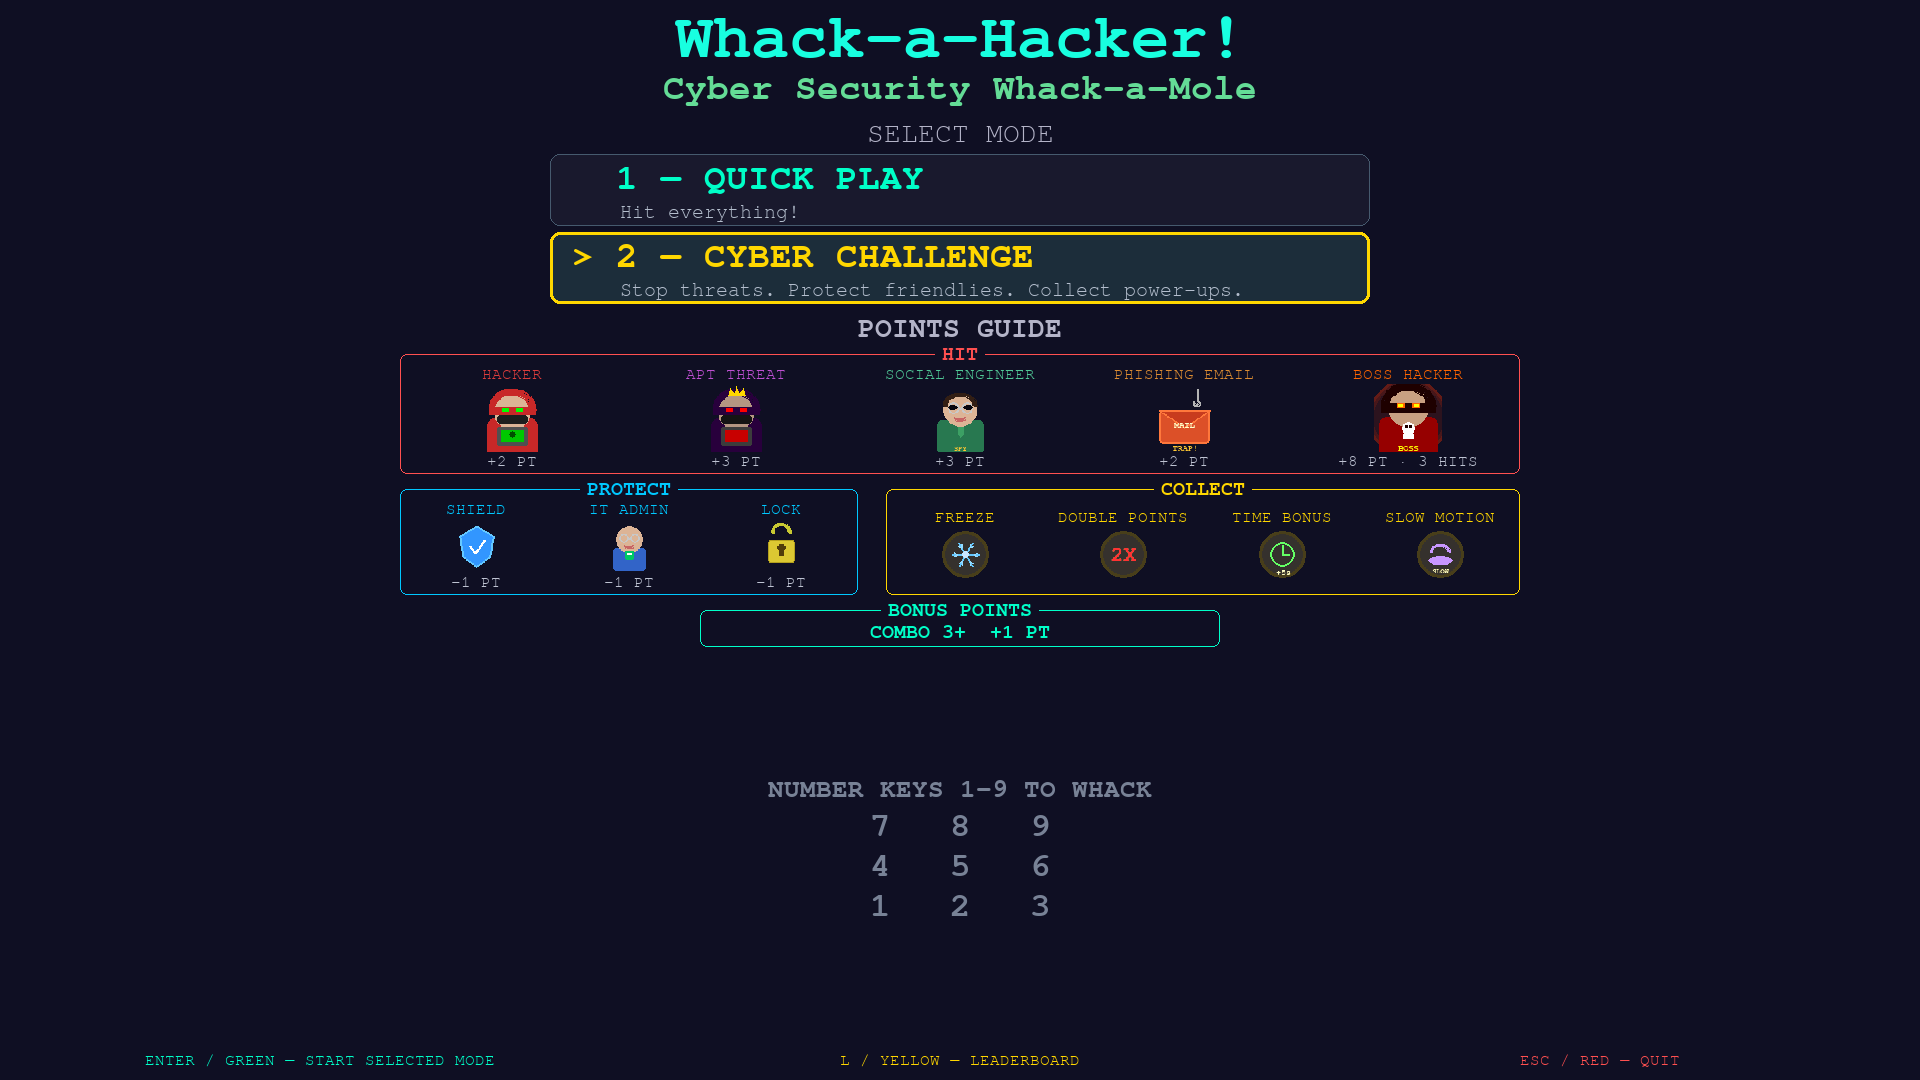
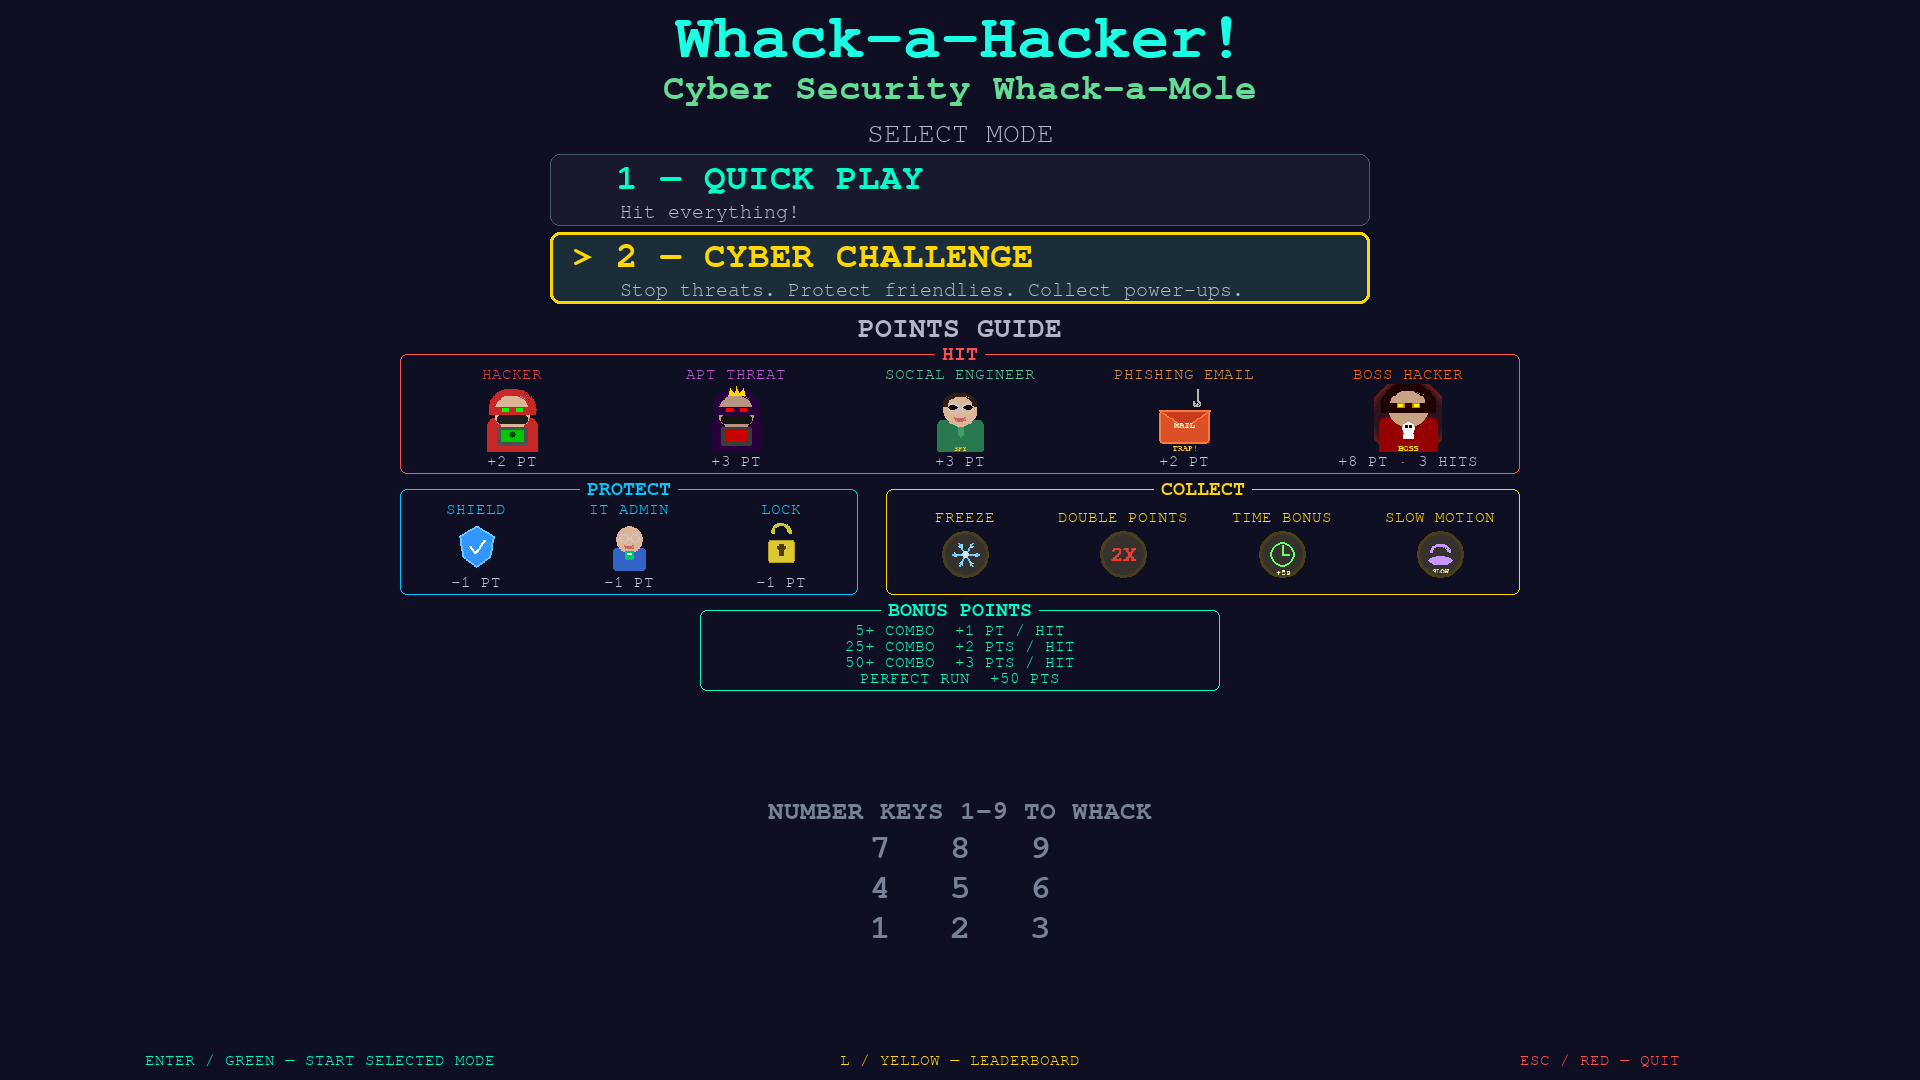
Add tiered combo and Perfect Run bonuses
- Move Quick Play combo bonus threshold from 3 to 5 hits
- Add 5+, 25+, and 50+ combo bonus tiers to Cyber Challenge
- Track earned combo points separately for each bonus tier
- Add a 50-point Perfect Run bonus to both game modes
- Require all threats and full boss defeats for Perfect Run
- Require zero friendly hits for Cyber Challenge Perfect Run
- Apply all bonuses before leaderboard qualification
- Add earned bonus breakdowns to the Game Over screen
- Update the main menu Bonus Points guide
- Update README scoring and Perfect Run documentation

Changed region(s): [[0.4062, 0.7028, 0.5938, 0.8556], [0.4375, 0.5806, 0.5625, 0.6417], [0.4375, 0.7944, 0.4688, 0.8556]]

diff --git a/code/main.py b/code/main.py
@@ -69,8 +69,17 @@ SCORE_HIT_PHISHING = 2
 SCORE_HIT_FRIENDLY = -1
 
 
-COMBO_THRESHOLD = 3
-COMBO_BONUS = 1
+QUICK_COMBO_THRESHOLD = 5
+QUICK_COMBO_BONUS = 1
+
+CHALLENGE_COMBO_TIER_1_THRESHOLD = 5
+CHALLENGE_COMBO_TIER_2_THRESHOLD = 25
+CHALLENGE_COMBO_TIER_3_THRESHOLD = 50
+CHALLENGE_COMBO_TIER_1_BONUS = 1
+CHALLENGE_COMBO_TIER_2_BONUS = 2
+CHALLENGE_COMBO_TIER_3_BONUS = 3
+
+PERFECT_RUN_BONUS = 50
 
 # ---- Difficulty ramp ----
 RAMP_INTERVAL = 15       # seconds between difficulty bumps
@@ -1286,7 +1295,9 @@ class Game:
                     "number_keys": "NUMBER KEYS 1-9 TO WHACK",
                     "hit_everything": "HIT EVERYTHING!",
                     "boss_hits": "{hits} HITS",
-                    "combo_bonus": "COMBO {threshold}+  +{bonus} PT"
+                    "combo_bonus": "COMBO {threshold}+  +{bonus} PT",
+                    "combo_bonus_per_hit": "{threshold}+ COMBO  +{bonus} {points} / HIT",
+                    "perfect_run": "PERFECT RUN"
                 },
                 "stats": {
                     "hits": "Hackers Whacked",
@@ -1296,7 +1307,10 @@ class Game:
                     "se_hits": "Spies Caught",
                     "bosses_k": "Bosses Defeated",
                     "pu_got": "Power-ups Collected",
-                    "max_combo": "Max Combo"
+                    "max_combo": "Max Combo",
+                    "final_score": "FINAL SCORE",
+                    "perfect_run": "PERFECT RUN",
+                    "total_bonus": "TOTAL BONUS"
                 },
                 "buttons": {
                     "start": "Press ENTER or Green Button to Start",
@@ -1515,6 +1529,12 @@ class Game:
         self.score = 0
         self.combo = 0
         self.max_combo = 0
+        self.combo_bonus_tier_1 = 0
+        self.combo_bonus_tier_2 = 0
+        self.combo_bonus_tier_3 = 0
+        self.perfect_run = False
+        self.required_enemy_missed = False
+        self.score_finalized = False
         self.hits = 0
         self.f_hits = 0
         self.ph_hits = 0
@@ -1632,6 +1652,45 @@ class Game:
 
     # ---- whack handler ----------------------------------------------------
 
+    def _award_combo_bonus(self, multiplier=1):
+        """Award and track the current mode's non-cumulative combo tier."""
+        tier = 0
+        bonus = 0
+        if self.selected_mode == "quick":
+            if self.combo >= QUICK_COMBO_THRESHOLD:
+                tier = 1
+                bonus = QUICK_COMBO_BONUS
+        elif self.combo >= CHALLENGE_COMBO_TIER_3_THRESHOLD:
+            tier = 3
+            bonus = CHALLENGE_COMBO_TIER_3_BONUS
+        elif self.combo >= CHALLENGE_COMBO_TIER_2_THRESHOLD:
+            tier = 2
+            bonus = CHALLENGE_COMBO_TIER_2_BONUS
+        elif self.combo >= CHALLENGE_COMBO_TIER_1_THRESHOLD:
+            tier = 1
+            bonus = CHALLENGE_COMBO_TIER_1_BONUS
+
+        awarded = bonus * multiplier
+        if tier:
+            attr = f"combo_bonus_tier_{tier}"
+            setattr(self, attr, getattr(self, attr) + awarded)
+        return awarded
+
+    def _finalize_score(self):
+        """Apply end-of-game bonuses exactly once before qualification."""
+        if self.score_finalized:
+            return
+
+        active_enemy_incomplete = any(
+            h.active and h.is_enemy and not h.hit for h in self.holes)
+        no_friendly_hits = self.selected_mode == "quick" or self.f_hits == 0
+        self.perfect_run = (not self.required_enemy_missed
+                            and not active_enemy_incomplete
+                            and no_friendly_hits)
+        if self.perfect_run:
+            self.score += PERFECT_RUN_BONUS
+        self.score_finalized = True
+
     def _whack(self, r, c):
         h = self._hole(r, c)
         if not h:
@@ -1661,10 +1720,11 @@ class Game:
 
         elif tag == "boss_ko":
             pts = SCORE_HIT_BOSS * mul
-            self.score += pts
             self.bosses_k += 1
             self.combo += 1
             self.max_combo = max(self.max_combo, self.combo)
+            pts += self._award_combo_bonus(mul)
+            self.score += pts
             self.hits += 1
             self.boss_up = False
             self._play("boss_ko")
@@ -1699,8 +1759,8 @@ class Game:
             elif detail != "social_engineer":
                 self._play("hit")
                 self._flash(self.config["messages"]["hit_hacker"].format(pts=pts), C_TEXT, 500)
-            if self.combo >= COMBO_THRESHOLD:
-                bonus = COMBO_BONUS * mul
+            bonus = self._award_combo_bonus(mul)
+            if bonus:
                 pts += bonus
                 self._play("combo", self.combo)
                 self._flash(self.config["messages"]["combo"].format(combo=self.combo, pts=pts), C_COMBO, 600)
@@ -1745,6 +1805,7 @@ class Game:
         if self.time_left <= 0:
             self.time_left = 0
             self._play("over")
+            self._finalize_score()
             self.state = ("name" if self.lb.qualifies(
                 self.score, self.selected_mode) else "over")
             self.pname = ""
@@ -1798,6 +1859,7 @@ class Game:
                 if was_enemy and not was_hit:
                     self.missed += 1
                     self.combo = 0
+                    self.required_enemy_missed = True
                 if etype == "boss" and not was_hit:
                     self.boss_up = False
                 if etype and etype.startswith("pu_"):
@@ -1908,7 +1970,10 @@ class Game:
         self.scr.blit(mode_text,
                       (self.screen_width // 2 - mode_text.get_width() // 2, 12))
         if self.combo >= 2:
-            col = C_COMBO if self.combo >= COMBO_THRESHOLD else (200, 200, 200)
+            first_bonus = (QUICK_COMBO_THRESHOLD
+                           if self.selected_mode == "quick"
+                           else CHALLENGE_COMBO_TIER_1_THRESHOLD)
+            col = C_COMBO if self.combo >= first_bonus else (200, 200, 200)
             self.scr.blit(
                 self.f_sm.render(f"Combo: {self.combo}x", True, col),
                 (20, 46))
@@ -2065,23 +2130,48 @@ class Game:
                        + detail_count * self.f_xx.get_height())
         return y + self.f_xs_bold.get_height() + 2 + item_height + 5
 
-    def _draw_bonus_guide(self, heading, combo, region, y, color):
-        """Draw the combo rule in its own bordered bonus category."""
+    def _draw_bonus_guide(self, heading, lines, region, y, color):
+        """Draw mode-specific combo and Perfect Run bonus rules."""
         title = self.f_xs_bold.render(heading, True, color)
-        combo_text = self.f_xs_bold.render(combo, True, color)
+        rendered_lines = [self.f_xx.render(line, True, color) for line in lines]
         title_x = region.centerx - title.get_width() // 2
-        combo_y = y + title.get_height() + 2
+        line_y = y + title.get_height() + 2
         box_top = y + title.get_height() // 2
+        line_height = self.f_xx.get_height()
         box = pygame.Rect(region.x, box_top, region.width,
-                          combo_y + combo_text.get_height() + 5 - box_top)
+                          line_y + len(rendered_lines) * line_height + 5 - box_top)
         pygame.draw.rect(self.scr, color, box, 1, border_radius=7)
         legend_bg = pygame.Rect(title_x - 7, y, title.get_width() + 14,
                                 title.get_height())
         pygame.draw.rect(self.scr, C_BG, legend_bg)
         self.scr.blit(title, (title_x, y))
-        self.scr.blit(combo_text,
-                      (region.centerx - combo_text.get_width() // 2, combo_y))
+        for rendered in rendered_lines:
+            self.scr.blit(rendered,
+                          (region.centerx - rendered.get_width() // 2, line_y))
+            line_y += line_height
         return box.bottom
+
+    def _bonus_guide_lines(self):
+        labels = self.config["ui_labels"]["guide"]
+
+        def combo_line(threshold, bonus):
+            points = "PT" if bonus == 1 else "PTS"
+            return labels["combo_bonus_per_hit"].format(
+                threshold=threshold, bonus=bonus, points=points)
+
+        if self.selected_mode == "quick":
+            lines = [combo_line(QUICK_COMBO_THRESHOLD, QUICK_COMBO_BONUS)]
+        else:
+            lines = [
+                combo_line(CHALLENGE_COMBO_TIER_1_THRESHOLD,
+                           CHALLENGE_COMBO_TIER_1_BONUS),
+                combo_line(CHALLENGE_COMBO_TIER_2_THRESHOLD,
+                           CHALLENGE_COMBO_TIER_2_BONUS),
+                combo_line(CHALLENGE_COMBO_TIER_3_THRESHOLD,
+                           CHALLENGE_COMBO_TIER_3_BONUS),
+            ]
+        lines.append(f"{labels['perfect_run']}  +{PERFECT_RUN_BONUS} PTS")
+        return lines
 
     def _keymap_font(self, size):
         """Cache the responsive bold fonts used by the keymap guide."""
@@ -2193,8 +2283,7 @@ class Game:
             C_WARNING, target_size)
 
         lower_y = enemy_bottom + 5
-        combo = labels["combo_bonus"].format(
-            threshold=COMBO_THRESHOLD, bonus=COMBO_BONUS)
+        bonus_lines = self._bonus_guide_lines()
         if self.selected_mode == "quick":
             rule = self.f_md.render(labels["hit_everything"], True, C_COMBO)
             self.scr.blit(rule,
@@ -2205,7 +2294,7 @@ class Game:
                 self.screen_width // 2 - bonus_width // 2, 0,
                 bonus_width, 0)
             bonus_bottom = self._draw_bonus_guide(
-                labels["bonus_points"], combo, bonus_region,
+                labels["bonus_points"], bonus_lines, bonus_region,
                 lower_y + rule.get_height() + 4, C_TEXT)
             self._draw_keymap_guide(bonus_bottom)
             return
@@ -2248,7 +2337,7 @@ class Game:
             self.screen_width // 2 - bonus_width // 2, 0,
             bonus_width, 0)
         bonus_bottom = self._draw_bonus_guide(
-            labels["bonus_points"], combo, bonus_region,
+            labels["bonus_points"], bonus_lines, bonus_region,
             max(protect_bottom, collect_bottom) + 5, C_TEXT)
         self._draw_keymap_guide(bonus_bottom)
 
@@ -2345,11 +2434,12 @@ class Game:
 
     def _draw_over(self):
         self.scr.fill(C_BG)
+        stat_labels = self.config["ui_labels"]["stats"]
         t = self.f_lg.render(self.config["theme"]["game_over_title"], True, C_WARNING)
         self.scr.blit(t, (self.screen_width // 2 - t.get_width() // 2, 30))
         mode = self.f_sm.render(self._mode_label().upper(), True, C_HOLE_BORDER)
         self.scr.blit(mode, (self.screen_width // 2 - mode.get_width() // 2, 82))
-        t2 = self.f_lg.render(f"{self.config['theme']['score_label']}: {self.score}", True, C_TEXT)
+        t2 = self.f_lg.render(f"{stat_labels['final_score']}: {self.score}", True, C_TEXT)
         self.scr.blit(t2, (self.screen_width // 2 - t2.get_width() // 2, 115))
 
         if self.selected_mode == "quick":
@@ -2371,18 +2461,54 @@ class Game:
                 f"{self.config['ui_labels']['stats']['pu_got']}: {self.pu_got}",
                 f"{self.config['ui_labels']['stats']['max_combo']}: {self.max_combo}x",
             ]
+        bonus_rows = []
+        tier_values = (
+            ((QUICK_COMBO_THRESHOLD, self.combo_bonus_tier_1),)
+            if self.selected_mode == "quick" else (
+                (CHALLENGE_COMBO_TIER_1_THRESHOLD, self.combo_bonus_tier_1),
+                (CHALLENGE_COMBO_TIER_2_THRESHOLD, self.combo_bonus_tier_2),
+                (CHALLENGE_COMBO_TIER_3_THRESHOLD, self.combo_bonus_tier_3),
+            )
+        )
+        for threshold, points in tier_values:
+            if points:
+                bonus_rows.append((f"{threshold}+ COMBO", points))
+        if self.perfect_run:
+            bonus_rows.append((stat_labels["perfect_run"], PERFECT_RUN_BONUS))
+        total_bonus = (self.combo_bonus_tier_1 + self.combo_bonus_tier_2
+                       + self.combo_bonus_tier_3
+                       + (PERFECT_RUN_BONUS if self.perfect_run else 0))
+
+        stats_x = self.screen_width // 3 if bonus_rows else self.screen_width // 2
         y = 175
         for s in stats:
-            r = self.f_md.render(s, True, (180, 180, 200))
-            self.scr.blit(r, (self.screen_width // 2 - r.get_width() // 2, y))
+            r = self.f_sm.render(s, True, (180, 180, 200))
+            self.scr.blit(r, (stats_x - r.get_width() // 2, y))
             y += 35
 
         if (self._mode_config()["clean_run_enabled"] and self.f_hits == 0):
-            r = self.f_md.render("CLEAN RUN", True, C_COMBO)
-            self.scr.blit(r, (self.screen_width // 2 - r.get_width() // 2, y))
+            r = self.f_sm_bold.render("CLEAN RUN", True, C_COMBO)
+            self.scr.blit(r, (stats_x - r.get_width() // 2, y))
             y += 35
 
-        y += 12
+        if bonus_rows:
+            bonus_x = self.screen_width * 2 // 3
+            bonus_y = 175
+            heading = self.f_sm_bold.render(
+                self.config["ui_labels"]["guide"]["bonus_points"], True, C_COMBO)
+            self.scr.blit(heading,
+                          (bonus_x - heading.get_width() // 2, bonus_y))
+            bonus_y += 38
+            for label, points in bonus_rows:
+                row = self.f_sm.render(f"{label:<16} +{points}", True, C_TEXT)
+                self.scr.blit(row, (bonus_x - row.get_width() // 2, bonus_y))
+                bonus_y += 34
+            total = self.f_sm_bold.render(
+                f"{stat_labels['total_bonus']:<16} +{total_bonus}",
+                True, C_COMBO)
+            self.scr.blit(total, (bonus_x - total.get_width() // 2, bonus_y + 4))
+
+        y = self.screen_height - 120
         r1 = self.f_md.render(self.config["ui_labels"]["buttons"]["play_again"], True, C_TEXT)
         self.scr.blit(r1, (self.screen_width // 2 - r1.get_width() // 2, y))
         r2 = self.f_sm.render(self.config["ui_labels"]["buttons"]["menu"], True, (220, 60, 60))

diff --git a/README.md b/README.md
@@ -94,9 +94,38 @@ it immediately. The illustrated Points Guide updates with the selected mode.
 
 #### Combo Bonus
 
-| Combo Level | Bonus Multiplier | Notes |
-| ----------- | ---------------- | - |
-| x3+ | +1 points per hit | Resets after miss or whacking a friendly |
+Quick Play uses one combo tier:
+
+- Combo 5+: +1 bonus point per successful scoring hit.
+- The fifth hit earns the first bonus point, and the tier restarts after a
+  broken streak.
+
+Cyber Challenge uses three non-cumulative combo tiers:
+
+- Combo 5-24: +1 bonus point per successful scoring hit.
+- Combo 25-49: +2 bonus points per successful scoring hit.
+- Combo 50+: +3 bonus points per successful scoring hit.
+
+Only the highest applicable Cyber Challenge tier is awarded for each hit. A
+50+ combo therefore earns +3, not +1 +2 +3.
+
+#### Perfect Run
+
+A Perfect Run adds **+50 points** in either mode.
+
+- In Quick Play, earn it by missing no required enemy hits and fully defeating
+  every boss with all three hits.
+- In Cyber Challenge, the same enemy and boss requirements apply, and zero
+  friendlies may be hit. Power-ups are excluded: collecting, missing, or
+  ignoring one does not affect Perfect Run.
+- Pressing an empty hole does not affect Perfect Run in either mode.
+
+Cyber Challenge's **Clean Run** still means zero friendlies hit. Perfect Run is
+stricter because it also requires that no required enemy hits were missed.
+
+The final score, including all combo and Perfect Run bonuses, is calculated
+before leaderboard qualification. The Game Over screen shows the actual combo
+bonus points earned in each tier across all streaks.
 
 ### Power-Ups
 
@@ -139,6 +168,8 @@ detailed performance feedback, including hackers whacked and missed, friendlies
 hit, threats stopped, bosses defeated, power-ups collected, and maximum combo.
 A **Clean Run** is awarded only in Cyber Challenge when no friendlies are hit; it
 is a visual achievement only and does not affect score or leaderboard ranking.
+Perfect Run is a separate, stricter achievement that awards the scoring bonus
+described above.
 
 ## License
 
